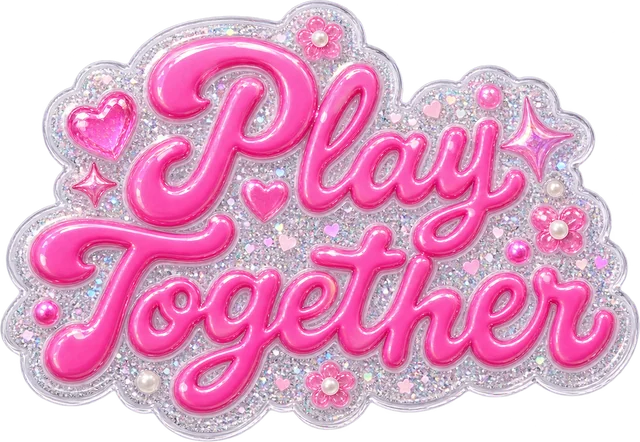
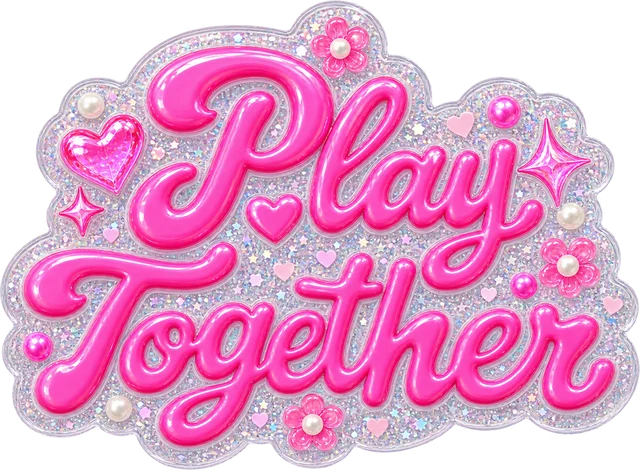
指摘対応: シール差し替え / 04の可読性 / 型を48pxへ
シール
・支給素材（2枚目）に差し替え。こちらも透過は効いていたので
  白抜きは不要。640px WebP q88 で 2936KB → 126KB
・.y2k-sticker の drop-shadow を撤去。輪郭が柔らかいラスターに
  影を掛けると、形に沿わず「薄い黒のもや」として広がっていた。
  絵柄自体が白フチと光彩を持っているので影は不要

04 NEW MEMORY
・見出しを 40 → 52px。全面写真の上では紙面と同じ大きさでは負ける
・text-shadow の 0 4px 30px を撤去。明るい部分では効かず、
  暗い部分では「文字の下の薄い黒」として見えていた
・代わりに .memory-copy 自身の背景に放射状の地を敷く。
  写真側の座標で覆いを当てても、文字の位置は画面幅で変わるため
  当たらなかった
・プリクラの帯を左右2本に。右は逆向きに流し、
  negative delay で位相をずらして同じコマが並ばないようにする

05 PRICE
・見出しのルビ「ヒャップン」を削除

型
・見出し 40 → 48px、本文 17 → 18px。
  56/70pxが「デカすぎ」、40pxが「小さい」だったので中間を取る。
  04だけは全面写真の上なので52px

diff --git a/index.html b/index.html
@@ -27,7 +27,7 @@
       href="https://fonts.googleapis.com/css2?family=Mochiy+Pop+One&amp;family=Shippori+Mincho:wght@500;700&amp;family=Zen+Kaku+Gothic+New:wght@500;700;900&amp;family=Zen+Kurenaido&amp;display=swap"
       rel="stylesheet"
     />
-    <link rel="stylesheet" href="./styles.css?v=195" />
+    <link rel="stylesheet" href="./styles.css?v=201" />
     <script src="./script.js?v=54" defer></script>
   </head>
 
@@ -170,7 +170,7 @@
               src="./assets/play-together-sticker.webp"
               alt=""
               width="640"
-              height="442"
+              height="470"
               decoding="async"
             />
           </div>
@@ -213,7 +213,35 @@
           </figure>
           <!-- 画面外から流れるプリクラ帯と、写真へ貼った小さなシール。 -->
           <div class="album" aria-hidden="true">
-            <div class="purikura">
+            <div class="purikura purikura--l">
+              <div class="purikura__track">
+                <div class="purikura__set">
+                  <span class="purikura__cell"><img src="./assets/experience-karaoke.jpg" alt="" width="1800" height="1200" loading="lazy" decoding="async" /></span>
+                  <span class="purikura__cell"><img src="./assets/experience-game.jpg" alt="" width="1800" height="1200" loading="lazy" decoding="async" /></span>
+                  <span class="purikura__cell"><img src="./assets/gallery-y2k-v2.jpg" alt="" width="1672" height="941" loading="lazy" decoding="async" /></span>
+                  <span class="purikura__cell"><img src="./assets/experience-music.jpg" alt="" width="1800" height="1200" loading="lazy" decoding="async" /></span>
+                  <span class="purikura__cell"><img src="./assets/final-night.jpg" alt="" width="1920" height="1080" loading="lazy" decoding="async" /></span>
+                  <span class="purikura__cell"><img src="./assets/experience-cheers.jpg" alt="" width="1800" height="1200" loading="lazy" decoding="async" /></span>
+                </div>
+                <div class="purikura__set" aria-hidden="true">
+                  <span class="purikura__cell"><img src="./assets/experience-karaoke.jpg" alt="" width="1800" height="1200" loading="lazy" decoding="async" /></span>
+                  <span class="purikura__cell"><img src="./assets/experience-game.jpg" alt="" width="1800" height="1200" loading="lazy" decoding="async" /></span>
+                  <span class="purikura__cell"><img src="./assets/gallery-y2k-v2.jpg" alt="" width="1672" height="941" loading="lazy" decoding="async" /></span>
+                  <span class="purikura__cell"><img src="./assets/experience-music.jpg" alt="" width="1800" height="1200" loading="lazy" decoding="async" /></span>
+                  <span class="purikura__cell"><img src="./assets/final-night.jpg" alt="" width="1920" height="1080" loading="lazy" decoding="async" /></span>
+                  <span class="purikura__cell"><img src="./assets/experience-cheers.jpg" alt="" width="1800" height="1200" loading="lazy" decoding="async" /></span>
+                </div>
+                <div class="purikura__set" aria-hidden="true">
+                  <span class="purikura__cell"><img src="./assets/experience-karaoke.jpg" alt="" width="1800" height="1200" loading="lazy" decoding="async" /></span>
+                  <span class="purikura__cell"><img src="./assets/experience-game.jpg" alt="" width="1800" height="1200" loading="lazy" decoding="async" /></span>
+                  <span class="purikura__cell"><img src="./assets/gallery-y2k-v2.jpg" alt="" width="1672" height="941" loading="lazy" decoding="async" /></span>
+                  <span class="purikura__cell"><img src="./assets/experience-music.jpg" alt="" width="1800" height="1200" loading="lazy" decoding="async" /></span>
+                  <span class="purikura__cell"><img src="./assets/final-night.jpg" alt="" width="1920" height="1080" loading="lazy" decoding="async" /></span>
+                  <span class="purikura__cell"><img src="./assets/experience-cheers.jpg" alt="" width="1800" height="1200" loading="lazy" decoding="async" /></span>
+                </div>
+              </div>
+            </div>
+            <div class="purikura purikura--r">
               <div class="purikura__track">
                 <div class="purikura__set">
                   <span class="purikura__cell"><img src="./assets/experience-karaoke.jpg" alt="" width="1800" height="1200" loading="lazy" decoding="async" /></span>
@@ -268,7 +296,7 @@
             <div class="sheet__face">
               <p class="scene-label"><b>05</b><i aria-hidden="true"></i><span>料金</span><em>PRICE</em></p>
 
-              <h2 class="paper-h" id="price-title">あと<span class="ruby"><span class="ruby__t" aria-hidden="true">ヒャップン</span>100分</span>だけ遊ぼう</h2>
+              <h2 class="paper-h" id="price-title">あと100分だけ遊ぼう</h2>
 
               <div class="price-main">
                 <div class="price-info">

diff --git a/styles.css b/styles.css
@@ -3947,3 +3947,94 @@ a { color: inherit; }
 .price-info .ink-button { align-self: flex-start; }
 .price-info .plan-prices { margin: 0; }
 .price-copy .paper-note { margin-bottom: 0; }
+
+/* ===================== シールの影を外す =====================
+   支給素材は絵柄自体が白フチと光彩を持っている。そこへ
+   drop-shadow を掛けると、輪郭が柔らかいラスターなので
+   影が形に沿わず「薄い黒のもや」として全体に広がっていた。 */
+.y2k-sticker { filter: none; }
+
+/* ===================== 04 の見出し =====================
+   1) 全面写真の上なので、紙面の見出しと同じ40pxでは負ける
+   2) text-shadow が 30px のぼかしだけで、明るい部分では
+      効かず、暗い部分では「文字の下の薄い黒」として見えていた
+      → ぼかしを絞って輪郭に効かせ、広いもやをやめる */
+.scene--new-memory .scene-title,
+.memory-copy .scene-title {
+  font-size: clamp(2rem, 3.9vw, 3.25rem);
+  text-shadow:
+    0 1px 2px rgba(0, 0, 0, 0.55),
+    0 2px 10px rgba(0, 0, 0, 0.4);
+}
+
+/* ===================== 04 プリクラを左右対称に =====================
+   1本だと画面の左だけが重く、中央の見出しに対して非対称だった。
+   同じ帯を右にも置き、流れる向きを逆にする。
+   （同方向だと2本が1つの動きに見えて、対称の意味が消える） */
+
+.purikura--r {
+  left: auto;
+  right: clamp(-74px, -4.8vw, -40px);
+  transform: rotate(6deg);
+}
+/* 右は逆向きに流す。負の delay で位相をずらし、
+   左右で同じコマが並ばないようにする */
+.purikura--r .purikura__track {
+  animation-direction: reverse;
+  animation-delay: -9s;
+}
+
+@media (max-width: 767px) {
+  /* SPは幅が足りないので右は出さない */
+  .purikura--r { display: none; }
+}
+
+@media (prefers-reduced-motion: reduce) {
+  .purikura--r .purikura__track { animation: none; }
+}
+
+/* 04 の見出しは全面写真の一番明るい部分（逆光のグラス）に重なる。
+   写真側の座標で覆いを当てても、文字がどこに来るかは
+   画面幅で変わるので当たらない。文字ブロック自身に地を敷く。 */
+.memory-photo::after {
+  background:
+    radial-gradient(58% 32% at 50% 46%, rgba(7, 8, 10, 0.34), transparent 74%),
+    linear-gradient(180deg, rgba(7, 8, 10, 0.34), rgba(7, 8, 10, 0.26) 42%, rgba(7, 8, 10, 0.78));
+}
+
+/* 擬似要素 + z-index:-1 は、親が作るスタッキング文脈の都合で
+   写真の下に潜って効かなかった。要素自身の背景にする。
+   背景は中身の後ろ・下の写真の上に必ず入る。 */
+.scene--new-memory .memory-copy {
+  padding: clamp(30px, 4.4vw, 64px) clamp(26px, 4.5vw, 72px);
+  background: radial-gradient(
+    62% 62% at 50% 50%,
+    rgba(7, 8, 10, 0.84),
+    rgba(7, 8, 10, 0.6) 54%,
+    transparent 78%
+  );
+}
+
+/* ===================== 型：もう一段上げる =====================
+   40px は数字としては一般的なLPのレンジだが、この誌面では
+   小さく見える。紙の面が広く（500〜700px）、セクションが
+   1画面ずつあるため、40pxだと画面に占める割合が小さい。
+   56/70pxが「デカすぎ」、40pxが「小さい」だったので、
+   その間の 48px を基準にする。本文も1px上げて釣り合いを保つ。 */
+
+.paper-h,
+.play-copy .paper-h,
+.scene-title,
+.scene--karaoke .scene-title,
+.final-night__content h2,
+.info-heading h2 {
+  font-size: clamp(1.7rem, 3.5vw, 3rem);
+}
+
+.scene-text,
+.request-copy .scene-text,
+.play-copy .scene-text,
+.scene--karaoke .scene-text,
+.final-night__content > p {
+  font-size: clamp(15px, 1.4vw, 18px);
+}
